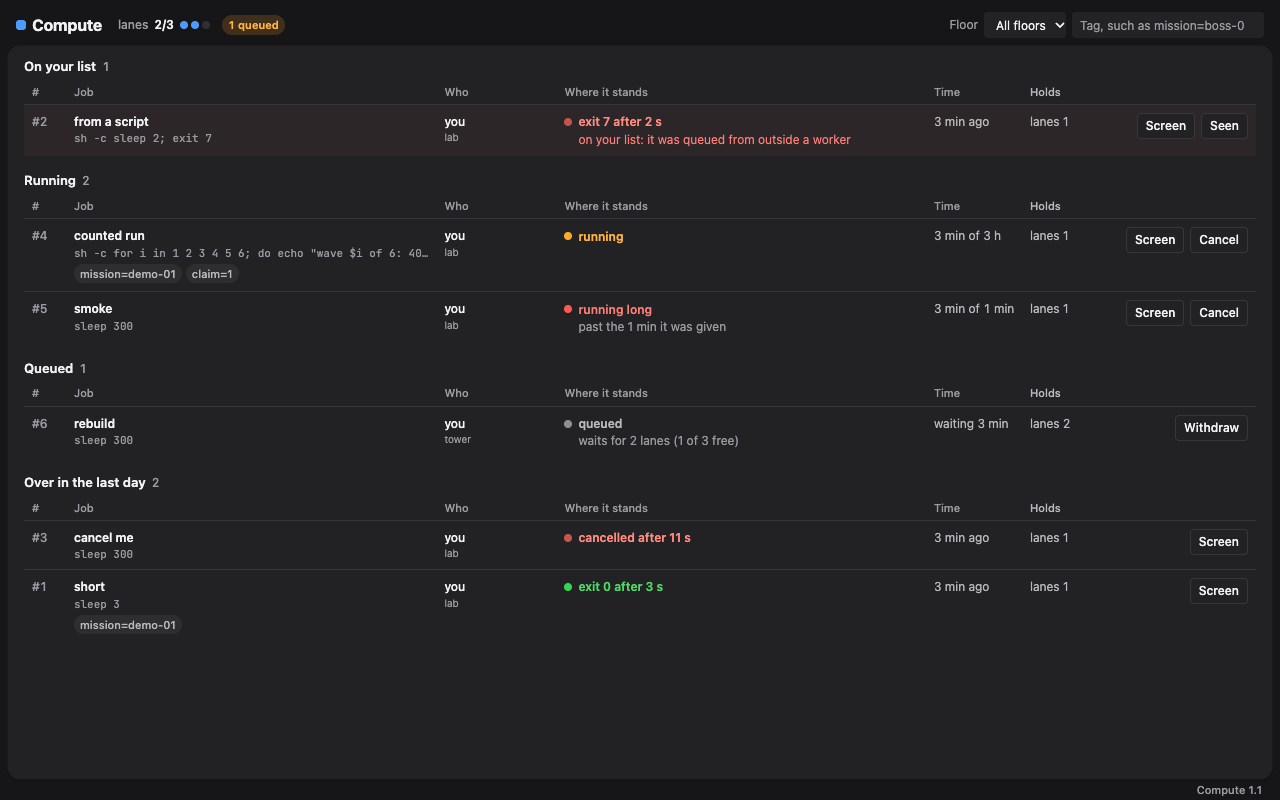
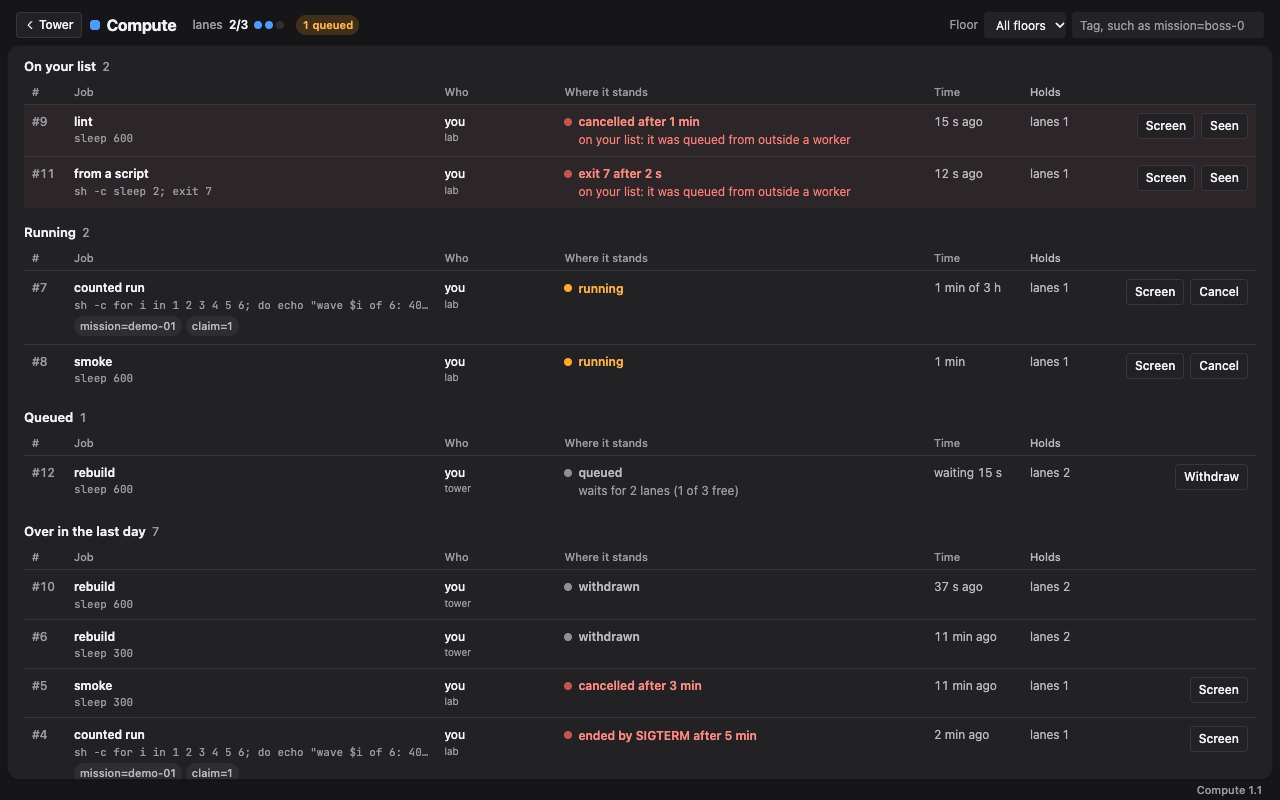
A Tower button at the top left goes back to the tower
The page's name was the only way back, and nothing said so. A quiet key with
the tower's own back icon (ICON.back from /lib/view.js) now leads the top,
opening the tower page in the top window; the name is a plain heading.

diff --git a/renderer/compute.css b/renderer/compute.css
@@ -132,7 +132,13 @@ button.act.danger:hover { border-color: color-mix(in oklab, var(--needs) 60%, tr
 
 /* ---- the chrome at the top: name, the meter, the filters ---- */
 .top { display: flex; flex-wrap: wrap; align-items: center; gap: var(--sp-m) var(--sp-xl); padding: var(--sp-l) var(--sp-xl) var(--sp-m); }
-.brand { display: inline-flex; align-items: center; gap: var(--sp-s); color: var(--ink); text-decoration: none; font: 700 var(--fs-xl)/1 var(--display); letter-spacing: -.01em; }
+/* Back to the tower: a quiet key with the tower's back chevron, before the page's name. */
+.back { display: inline-flex; align-items: center; gap: 2px; min-height: 26px; padding: 0 var(--sp-m) 0 var(--sp-s); border: 1px solid var(--line); border-radius: var(--radius-s);
+  background: var(--panel); color: var(--ink); font: 500 var(--fs-s)/1 var(--ui); text-decoration: none; }
+.back:hover { border-color: var(--line-strong); }
+.back:focus-visible { outline: 3px solid color-mix(in oklab, var(--accent) 35%, transparent); outline-offset: 0; }
+.back .icon { width: 14px; height: 14px; }
+.brand { display: inline-flex; align-items: center; gap: var(--sp-s); margin: 0 0 0 calc(var(--sp-m) - var(--sp-xl)); color: var(--ink); font: 700 var(--fs-xl)/1 var(--display); letter-spacing: -.01em; }
 .brand::before { content: ''; width: 10px; height: 10px; border-radius: 3px; background: var(--accent); }
 /* `.meter` is design.css's own bar: the lanes' meter is `.c-meter`. */
 .c-meter { display: flex; flex-wrap: wrap; align-items: center; gap: var(--sp-s) var(--sp-l); }

diff --git a/renderer/compute.js b/renderer/compute.js
@@ -7,7 +7,7 @@
  */
 import { esc } from '/lib/words.js'
 import { loadTerminalFont, mountTermView, SHELL_SCROLLBACK, terminalFont } from '/lib/terminal.js'
-import { copyText } from '/lib/view.js'
+import { copyText, ICON } from '/lib/view.js'
 import { watchTips } from '/lib/chrome.js'
 
 /**
@@ -277,6 +277,8 @@ $('version').addEventListener('click', () => {
   setTimeout(() => (button.dataset.tip = `${said}. Press to copy it`), 1400)
 })
 
+// The way back to the tower, with the tower's own icon for it.
+$('back').insertAdjacentHTML('afterbegin', ICON.back)
 watchTips(document)
 tower.onBoardError((err) => ($('main').innerHTML = `<p class="note broken">${esc(err.message)}</p>`))
 tower.subscribe((board) => {

diff --git a/renderer/index.html b/renderer/index.html
@@ -13,7 +13,8 @@
 </head>
 <body>
 <header class="top">
-  <a class="brand" href="/" data-tip="Back to the tower">Compute</a>
+  <a id="back" class="back" href="/" target="_top" data-tip="Back to the tower">Tower</a>
+  <h1 class="brand">Compute</h1>
   <div id="meter" class="c-meter" aria-live="polite"></div>
   <div class="filters" role="search">
     <label>Floor <select id="floor" aria-label="Floor"></select></label>

diff --git a/README.md b/README.md
@@ -75,7 +75,7 @@ the window, the system face, greys and a blue accent, light or dark as the tower
 job stands: a job past its hours or on your list in red, a running one amber, one that exited 0 green, a queued or
 withdrawn one grey.
 
-- **The top:** each resource's units in use out of the machine's, as a row of lamps that turns red when it is full and
+- **The top:** a **Tower** button back to the tower page, then each resource's units in use out of the machine's, as a row of lamps that turns red when it is full and
   jobs wait, and how many are queued. A floor picker and a tag filter, kept in the page's hash so a link keeps them.
 - **The jobs,** in sections: on your list, running, queued, and over in the last day. Each row: its number, label,
   command and tags (a tag filters the page by it), who queued it and from which floor, where it stands (what a queued

diff --git a/CHANGELOG.md b/CHANGELOG.md
@@ -12,6 +12,7 @@ meaning); every other release is a **minor**, fixes included. How to cut one:
 - The page wears the Lobby look: the jobs in a card set into the window, the system face, Lobby's greys and blue
   accent in light and dark, sentence-case section heads, flat rows and quiet buttons, and the job's screen in a card
   of its own. A running job's lamp is amber and one that exited 0 green, as Lobby's working and done.
+- A **Tower** button at the top left goes back to the tower page; the page's name is no longer the way back.
 
 ## [1.1] - 2026-11-17
 
